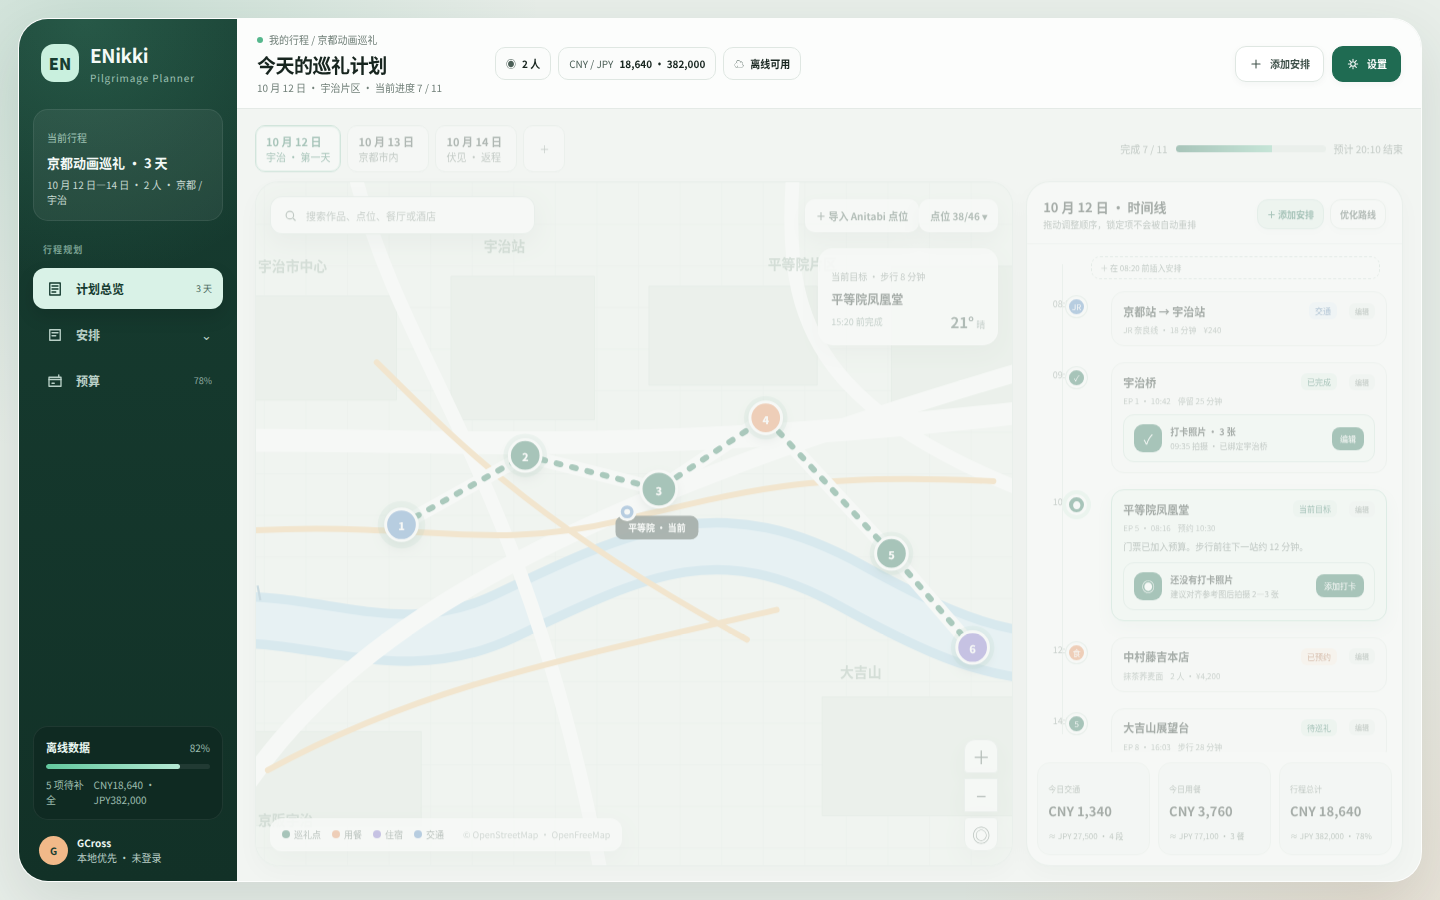
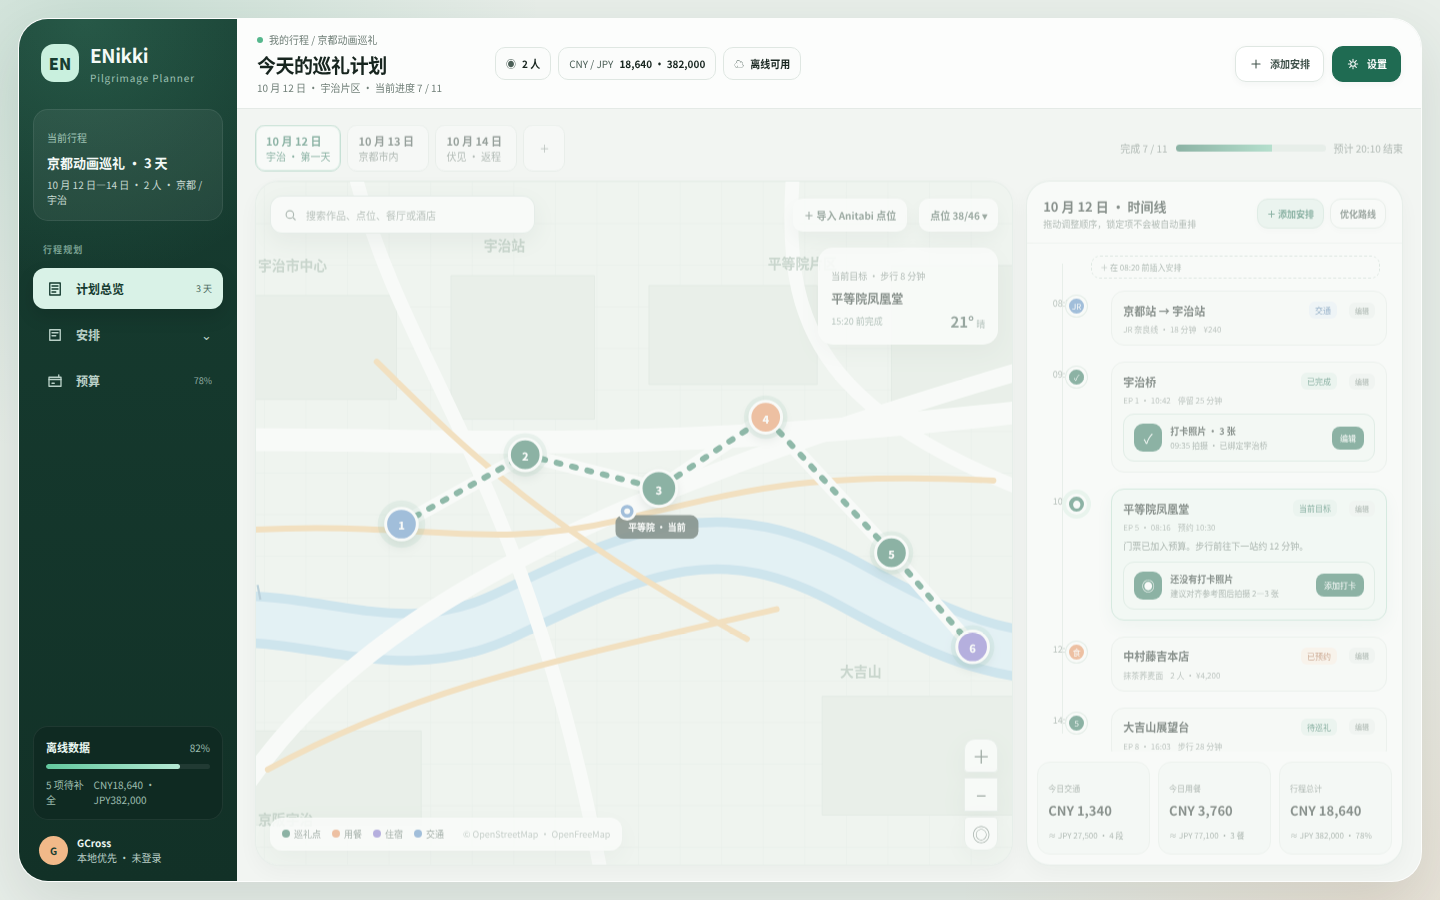
design: improve map action spacing

diff --git a/design/enikki-ui.html b/design/enikki-ui.html
@@ -65,7 +65,7 @@ button,input{font:inherit}button{border:0;cursor:pointer}svg{display:block}
 .content{position:relative;min-height:0;flex:1;overflow:hidden;padding:15px 18px 18px}.view{display:none;height:100%;min-height:0;animation:fade .22s ease}.view.active{display:block}@keyframes fade{from{opacity:.2;transform:translateY(4px)}to{opacity:1;transform:none}}
 .daybar{height:43px;display:flex;align-items:center;gap:8px;margin-bottom:11px}.day-tabs{display:flex;gap:6px}.day-tabs button{min-width:82px;padding:7px 10px;border:1px solid var(--line);border-radius:10px;color:var(--muted);background:rgba(255,255,255,.7);font-size:10px;text-align:left}.day-tabs button b{display:block;color:#35463f;font-size:11px}.day-tabs button.active{border-color:#98c9b6;color:var(--green);background:#fff;box-shadow:inset 0 0 0 1px #d5ebe2}.day-tabs button.active b{color:var(--green)}.day-summary{margin-left:auto;display:flex;align-items:center;gap:8px;color:var(--muted);font-size:10px}.progress-pill{width:150px;height:7px;overflow:hidden;border-radius:99px;background:#dce6e0}.progress-pill span{display:block;width:64%;height:100%;background:linear-gradient(90deg,var(--green),#75c8a7)}
 .planner-grid{height:calc(100% - 54px);display:grid;grid-template-columns:minmax(0,1.65fr) minmax(355px,.82fr);gap:13px}.card{min-width:0;border:1px solid rgba(217,229,222,.95);border-radius:24px;background:var(--paper);box-shadow:var(--shadow-sm)}
-.map-card{position:relative;overflow:hidden;background:#edf3ed}.map-head{position:absolute;top:14px;left:14px;right:14px;z-index:5;display:flex;align-items:center;gap:8px;pointer-events:none}.map-search{width:265px;height:38px;display:flex;align-items:center;gap:8px;padding:0 12px;border:1px solid rgba(213,225,219,.95);border-radius:12px;color:#7f8d86;background:rgba(255,255,255,.94);box-shadow:0 8px 24px rgba(33,65,52,.12);font-size:10px;pointer-events:auto}.map-search svg{width:15px;height:15px;fill:none;stroke:#62766d;stroke-width:1.8}.map-layers{margin-left:auto;pointer-events:auto}.map-chip{padding:8px 10px;border:1px solid rgba(255,255,255,.78);border-radius:10px;color:#40594e;background:rgba(255,255,255,.91);box-shadow:0 8px 18px rgba(33,65,52,.09);font-size:10px;font-weight:700}
+.map-card{position:relative;overflow:hidden;background:#edf3ed}.map-head{position:absolute;top:14px;left:14px;right:14px;z-index:5;display:flex;align-items:center;gap:8px;pointer-events:none}.map-search{width:265px;height:38px;display:flex;align-items:center;gap:8px;padding:0 12px;border:1px solid rgba(213,225,219,.95);border-radius:12px;color:#7f8d86;background:rgba(255,255,255,.94);box-shadow:0 8px 24px rgba(33,65,52,.12);font-size:10px;pointer-events:auto}.map-search svg{width:15px;height:15px;fill:none;stroke:#62766d;stroke-width:1.8}.map-layers{margin-left:auto;display:flex;align-items:center;gap:12px;pointer-events:auto}.import-chip{color:var(--green);border-color:#bcd9cc;background:#eff8f4}.map-chip{padding:8px 10px;border:1px solid rgba(255,255,255,.78);border-radius:10px;color:#40594e;background:rgba(255,255,255,.91);box-shadow:0 8px 18px rgba(33,65,52,.09);font-size:10px;font-weight:700}
 .map-canvas{position:absolute;inset:0}.map-canvas>svg{width:100%;height:100%}.map-legend{position:absolute;left:14px;bottom:14px;display:flex;align-items:center;gap:11px;padding:9px 11px;border:1px solid rgba(255,255,255,.78);border-radius:12px;color:#55675f;background:rgba(255,255,255,.9);box-shadow:var(--shadow-sm);font-size:9px}.dot{width:8px;height:8px;display:inline-block;margin-right:4px;border-radius:50%}.dot.spot{background:var(--green)}.dot.meal{background:var(--orange)}.dot.stay{background:var(--violet)}.dot.transport{background:var(--blue)}
 .map-controls{position:absolute;right:14px;bottom:14px;display:grid;gap:5px}.map-controls button{width:34px;height:34px;display:grid;place-items:center;border:1px solid #dde6e1;color:#43584e;background:rgba(255,255,255,.94);font-size:18px;box-shadow:var(--shadow-sm)}.map-controls button:first-child{border-radius:11px 11px 4px 4px}.map-controls button:last-child{border-radius:4px 4px 11px 11px}
 .map-status{position:absolute;right:14px;top:66px;width:180px;padding:12px;border:1px solid rgba(255,255,255,.8);border-radius:15px;background:rgba(255,255,255,.92);box-shadow:var(--shadow-sm)}.map-status small{color:var(--muted);font-size:9px}.map-status strong{display:block;margin:5px 0 4px;font-size:12px}.weather{display:flex;align-items:center;justify-content:space-between;color:#789087;font-size:9px}.weather b{color:#365147;font-size:15px}
